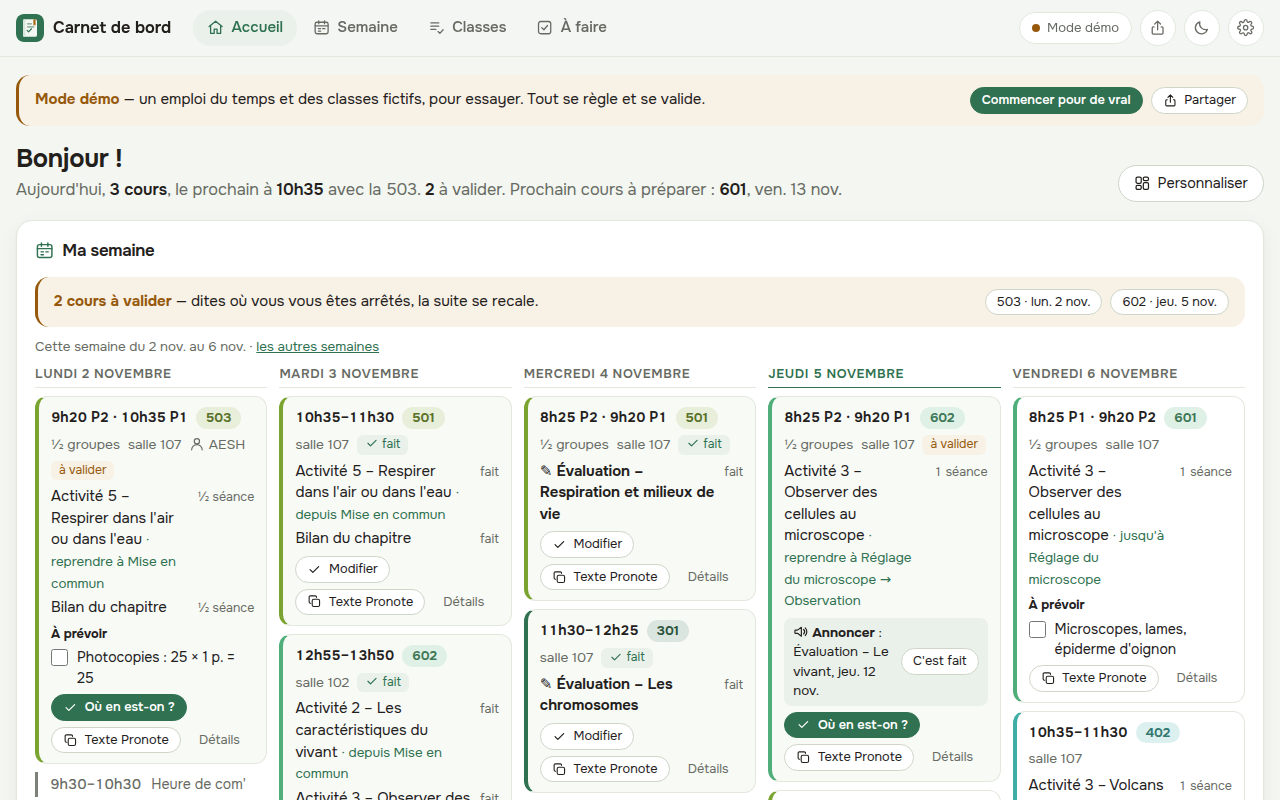
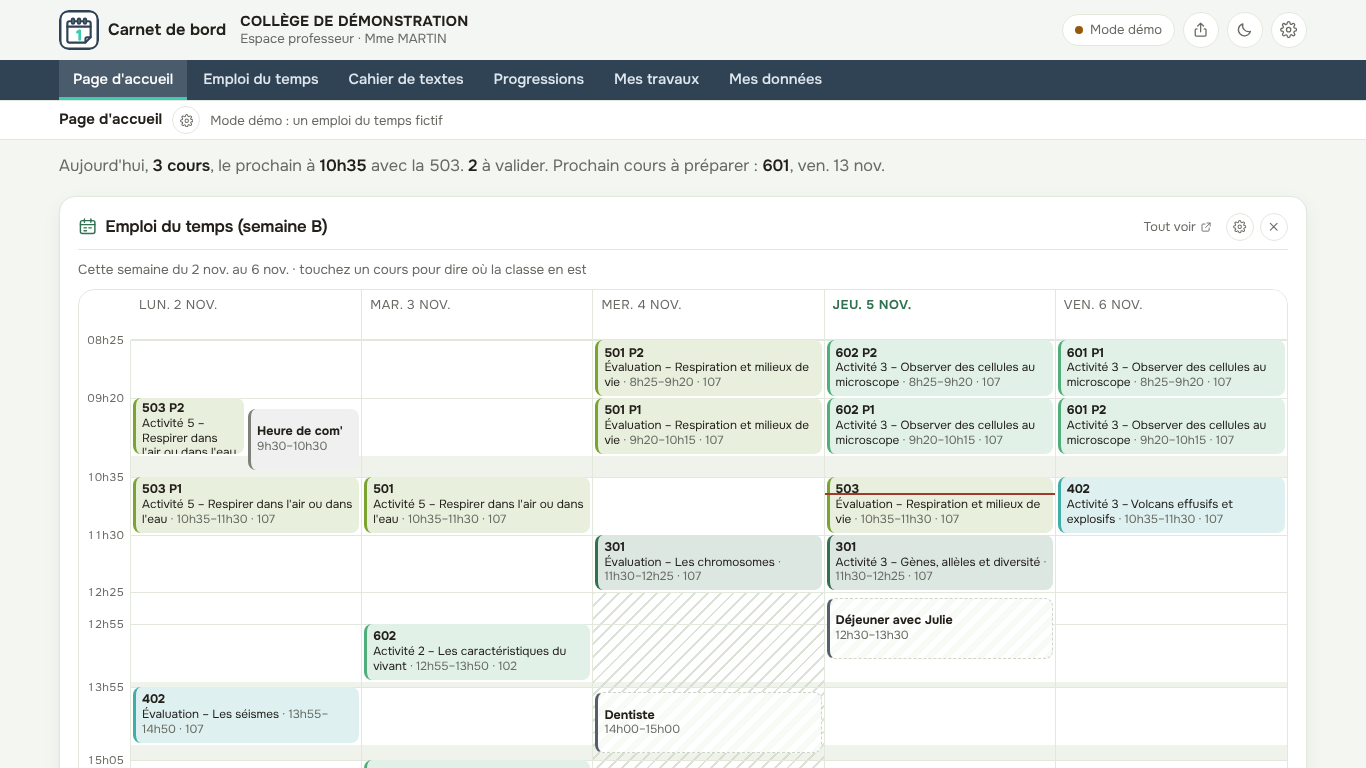
Le Carnet prêt pour le Microsoft Store et la vérification Google
Nouvelles captures (1366 × 768 et téléphone), logos 120 et 300 px, raccourcis de
l'appli renommés comme les rubriques, lien vers la confidentialité depuis l'accueil et
Mes données ; PUBLIER.md : pas à pas de la vérification Google avec les justifications
de chaque autorisation et le contenu de la vidéo.

Claude-Session: https://claude.ai/code/session_01CqScpJcvu8xKgM5RAc2DAu

diff --git a/carnet/js/vues/demarrer.js b/carnet/js/vues/demarrer.js
@@ -48,7 +48,7 @@ function ecranAccueil() {
         <span>À partir du lien iCal de Pronote ou d'un fichier .ics. Les données restent sur cet appareil.</span></button>
     </div>
     ${google ? '' : html`<p class="aide">La connexion Google s'active une seule fois, par la personne qui publie le Carnet : <a href="brancher-google.html">comment l'activer</a>.</p>`}
-    <p class="aide">Le Carnet ne demande jamais votre mot de passe Pronote et ne lit ni notes ni élèves : seulement l'emploi du temps que Pronote exporte.</p>
+    <p class="aide">Le Carnet ne demande jamais votre mot de passe Pronote et ne lit ni notes ni élèves : seulement l'emploi du temps que Pronote exporte. <a href="confidentialite.html">Confidentialité : ce que le Carnet fait de vos données</a>.</p>
     <p class="outils">${installation() ? html`<button class="btn" data-action="installer">${icone('telecharger')} Installer l'appli sur cet appareil</button>` : ''}
       <button class="btn" data-action="partager">${icone('partager')} L'ouvrir sur un téléphone, ou la partager</button></p>`;
 }

diff --git a/carnet/js/vues/reglages.js b/carnet/js/vues/reglages.js
@@ -112,6 +112,7 @@ export function rendreReglages() {
     </section>
 
     <section class="carte section-feuille"><h2>Ce que le Carnet fait de vos données</h2>
+      <p class="aide"><a href="confidentialite.html">Règles de confidentialité complètes</a></p>
       <ul class="petit">
         <li>Il lit l'<b>emploi du temps</b> exporté par Pronote — jamais votre mot de passe, ni notes, ni élèves.</li>
         <li>Vos classes, étapes et validations restent <b>sur cet appareil</b>${mode === 'google' ? html` et dans un <b>dossier caché de votre Google Drive</b>, que seule l'appli peut lire` : ''}. Aucun serveur du Carnet ne les reçoit.</li>

diff --git a/carnet/sw.js b/carnet/sw.js
@@ -1,7 +1,7 @@
 // Service worker : l'appli s'ouvre même sans réseau (en classe, le Wi-Fi est capricieux).
 // Les fichiers de l'appli viennent du cache, mis à jour en arrière-plan ; Google et Pronote
 // ne sont jamais mis en cache ici (données personnelles, jetons).
-const VERSION = 'carnet-0.6.0-1';
+const VERSION = 'carnet-0.6.0-2';
 const FICHIERS = [
   './', 'index.html', 'confidentialite.html', 'manifest.webmanifest', 'config.js', 'css/app.css',
   'js/avant.js', 'js/app.js', 'js/actions.js', 'js/ui.js', 'js/stockage.js', 'js/etat.js', 'js/dates.js',

diff --git a/carnet/docs/PUBLIER.md b/carnet/docs/PUBLIER.md
@@ -78,7 +78,12 @@ Le compte développeur est **gratuit pour les particuliers** depuis septembre 20
    description, classification par âge, adresse de `confidentialite.html`. Certification :
    quelques jours.
 
-Les captures d'écran sont prêtes dans `captures/` (téléphone et ordinateur).
+Les captures d'écran sont prêtes dans `captures/` : quatre pour ordinateur en 1366 × 768 (la taille
+minimale du Store), deux pour téléphone, et le logo en 300 × 300.
+
+Description courte proposée : « Le carnet de bord de l'enseignant : emploi du temps Pronote,
+progression de chaque classe, cahier de textes prêt à copier et rendez-vous perso, au même
+endroit. » Catégorie : Éducation. Public : adultes (outil d'enseignant).
 
 ## 4. Play Store
 
@@ -106,36 +111,40 @@ Les captures d'écran sont prêtes dans `captures/` (téléphone et ordinateur).
 
 ## 5. Vérification Google
 
-Indispensable pour ouvrir l'appli à n'importe quel compte Google : lire les agendas est une
-autorisation « sensible ». Ce qu'il faut :
+Indispensable pour ouvrir l'appli à n'importe quel compte Google sans avertissement : les
+autorisations d'Agenda sont « sensibles ». Pas d'audit de sécurité (réservé aux autorisations
+« restreintes », comme tout le Drive) ; gratuit ; quelques jours à quelques semaines. Avec le
+compte Google propriétaire du projet :
 
-- l'appli et sa page de confidentialité sur un domaine dont la propriété est prouvée dans
-  **Google Search Console** : pour un site `github.io`, en déposant à la racine le petit fichier
-  HTML que fournit Google (un nom de domaine à soi, une dizaine d'euros par an, simplifie tout) ;
-- une justification de chaque autorisation (le tableau du README et de `confidentialite.html`
-  sert de base) ;
-- une **courte vidéo** (YouTube, non répertoriée) : la connexion, l'écran d'accord, puis ce que
-  l'appli fait de chaque autorisation ;
-- passer l'appli **En production** (Audience → Publier l'application).
+1. **Prouver que le domaine est à soi** : <https://search.google.com/search-console> → Ajouter une
+   propriété → **Préfixe de l'URL** `https://reynesmanon11-maker.github.io/` → méthode **Fichier
+   HTML** : télécharger le fichier `google….html`, le déposer **à la racine du dépôt** (pas dans
+   `carnet/`), attendre la publication, puis **Valider**. Ne jamais supprimer ce fichier.
+2. **Google Auth Platform → Branding** : nom « Carnet de bord » ; logo `captures/logo-120.png` ;
+   e-mail d'assistance ; page d'accueil `https://reynesmanon11-maker.github.io/carnet/` ;
+   confidentialité `https://reynesmanon11-maker.github.io/carnet/confidentialite.html` ; domaine
+   autorisé `reynesmanon11-maker.github.io` ; e-mail du développeur.
+3. **Accès aux données** : vérifier les autorisations (celles de `brancher-google.html`), et
+   écrire pour chaque autorisation sensible pourquoi elle sert :
+   - `calendar.calendarlist.readonly` : « Lister les agendas de l'utilisateur pour trouver celui
+     que Pronote (logiciel de vie scolaire) y a abonné, et ceux qu'il choisit d'afficher. »
+   - `calendar.events` : « Lire l'emploi du temps exporté par Pronote et les rendez-vous
+     personnels choisis, pour les afficher à côté des cours ; créer, modifier ou supprimer un
+     rendez-vous personnel uniquement quand l'utilisateur le fait lui-même dans l'application. »
+   - `calendar.app.created` : « Créer les agendas propres à l'application (un par niveau de
+     classe) et y écrire les cours avec ce qui est prévu. »
+   - `drive.appdata` : « Garder une copie des données de l'utilisateur dans le dossier caché de
+     l'application, pour les retrouver sur ses autres appareils. »
+4. **La vidéo** (YouTube, « non répertoriée », 2 à 3 minutes, en anglais ou sous-titrée) : la
+   page d'accueil du Carnet ; « Se connecter avec Google » ; l'écran d'accord de Google où se
+   lisent le nom de l'appli **et l'adresse avec l'identifiant client** (`client_id=…`) ; puis, pour
+   chaque autorisation, ce qu'elle fait dans l'appli : l'agenda Pronote trouvé, les cours écrits
+   dans « Carnet · 5e », un rendez-vous ajouté puis supprimé, la synchronisation sur un deuxième
+   appareil.
+5. **Audience → Publier l'application** (« En production »), puis **Vérification → Préparer la
+   vérification** : tout relire et **Envoyer**. Google répond par e-mail, souvent avec des
+   questions : répondre dans le même fil.
 
-Aucune autorisation « restreinte » n'est demandée (accès complet à Gmail ou à Drive) : pas
-d'audit de sécurité payant.
-
-## Relais iCal (facultatif)
-
-Sans compte Google, ou pour avoir un emploi du temps plus frais que les 8 à 24 h de Google,
-`relais/worker.js` va lire le lien iCal à la place du navigateur. Offre gratuite de Cloudflare
-Workers : **Workers → Créer → coller le fichier → Déployer**, remplacer les origines en tête du
-fichier par l'adresse de l'appli, puis mettre l'adresse du relais dans `config.js` →
-`relaisIcal`. Il ne relaie que des liens iCal Pronote et ne garde rien ; mais le lien iCal
-contient une clé : on ne confie le sien qu'à un relais qu'on a déployé soi-même.
-
-## Avant d'ouvrir l'appli à des collègues
-
-- [ ] Une adresse de contact dans `confidentialite.html` (le texte « à indiquer »).
-- [ ] `googleClientId` dans `config.js` (`urlPublique` et `responsable` y sont déjà).
-- [ ] Les collègues ajoutés comme **utilisateurs test**.
-- [ ] `VERSION` changée dans `sw.js`.
-- [ ] Un essai réel : une semaine de Pronote, sur un téléphone Android, un iPhone et un
-      ordinateur, avec un vrai compte Google.
-- [ ] `npm test` et `npm run test:navigateur` au vert.
+Tant que la vérification n'est pas acquise, l'appli en production reste limitée à 100 comptes et
+affiche l'avertissement : on peut donc la publier tout de suite, rien ne casse pour celles et
+ceux qui l'utilisent déjà.
